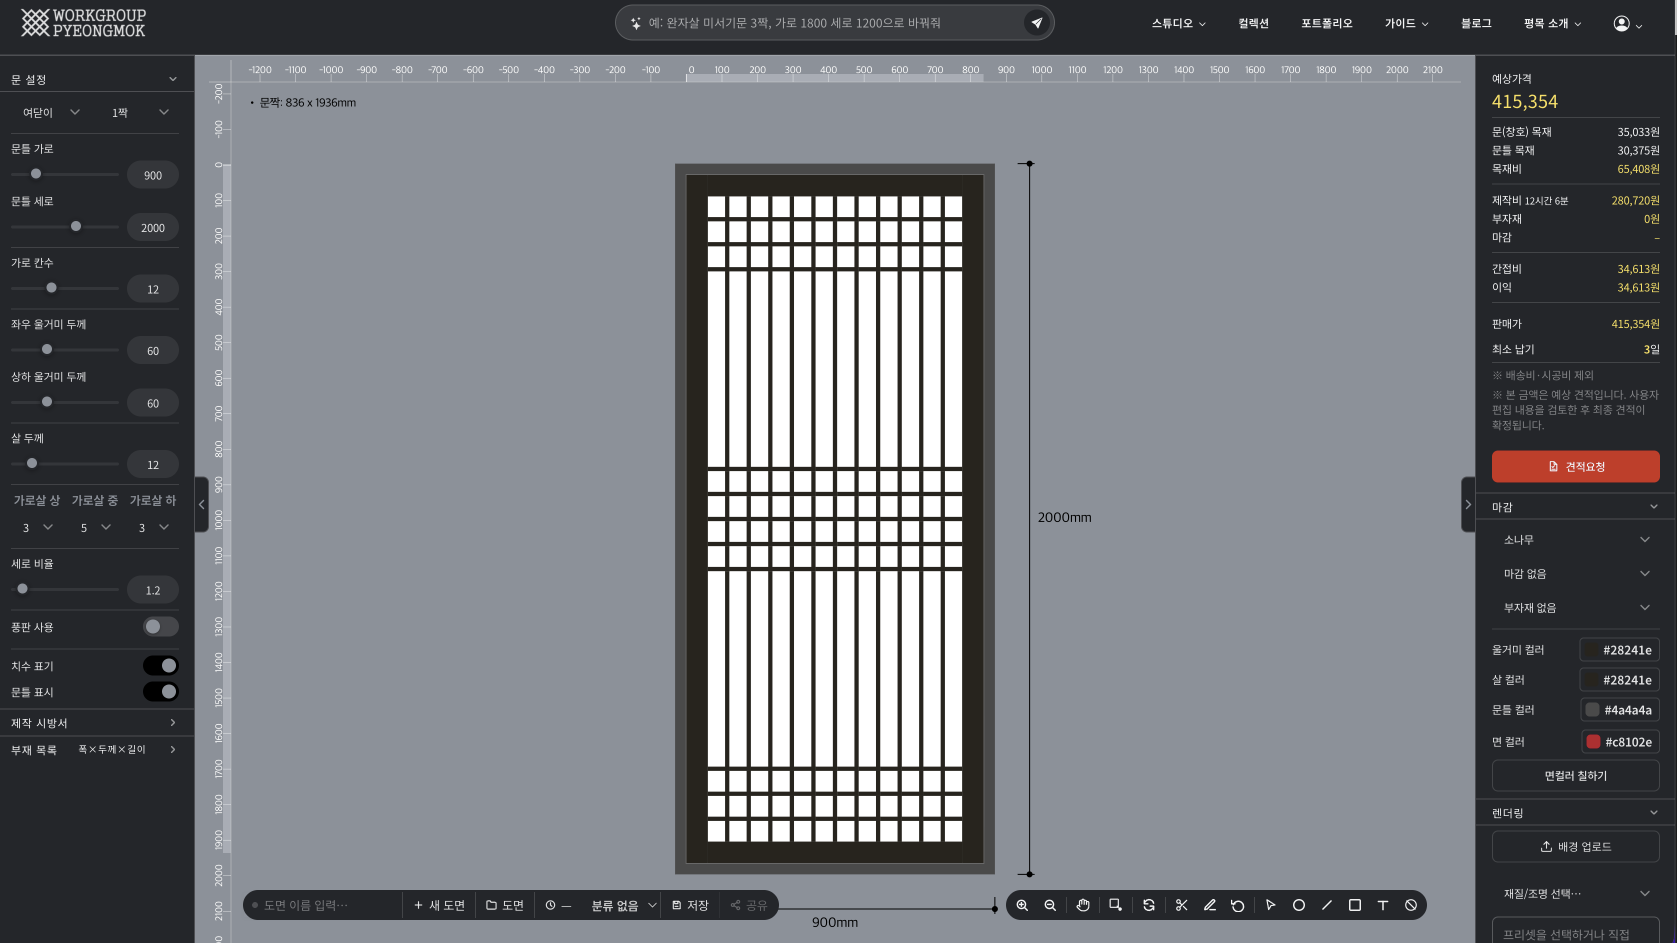
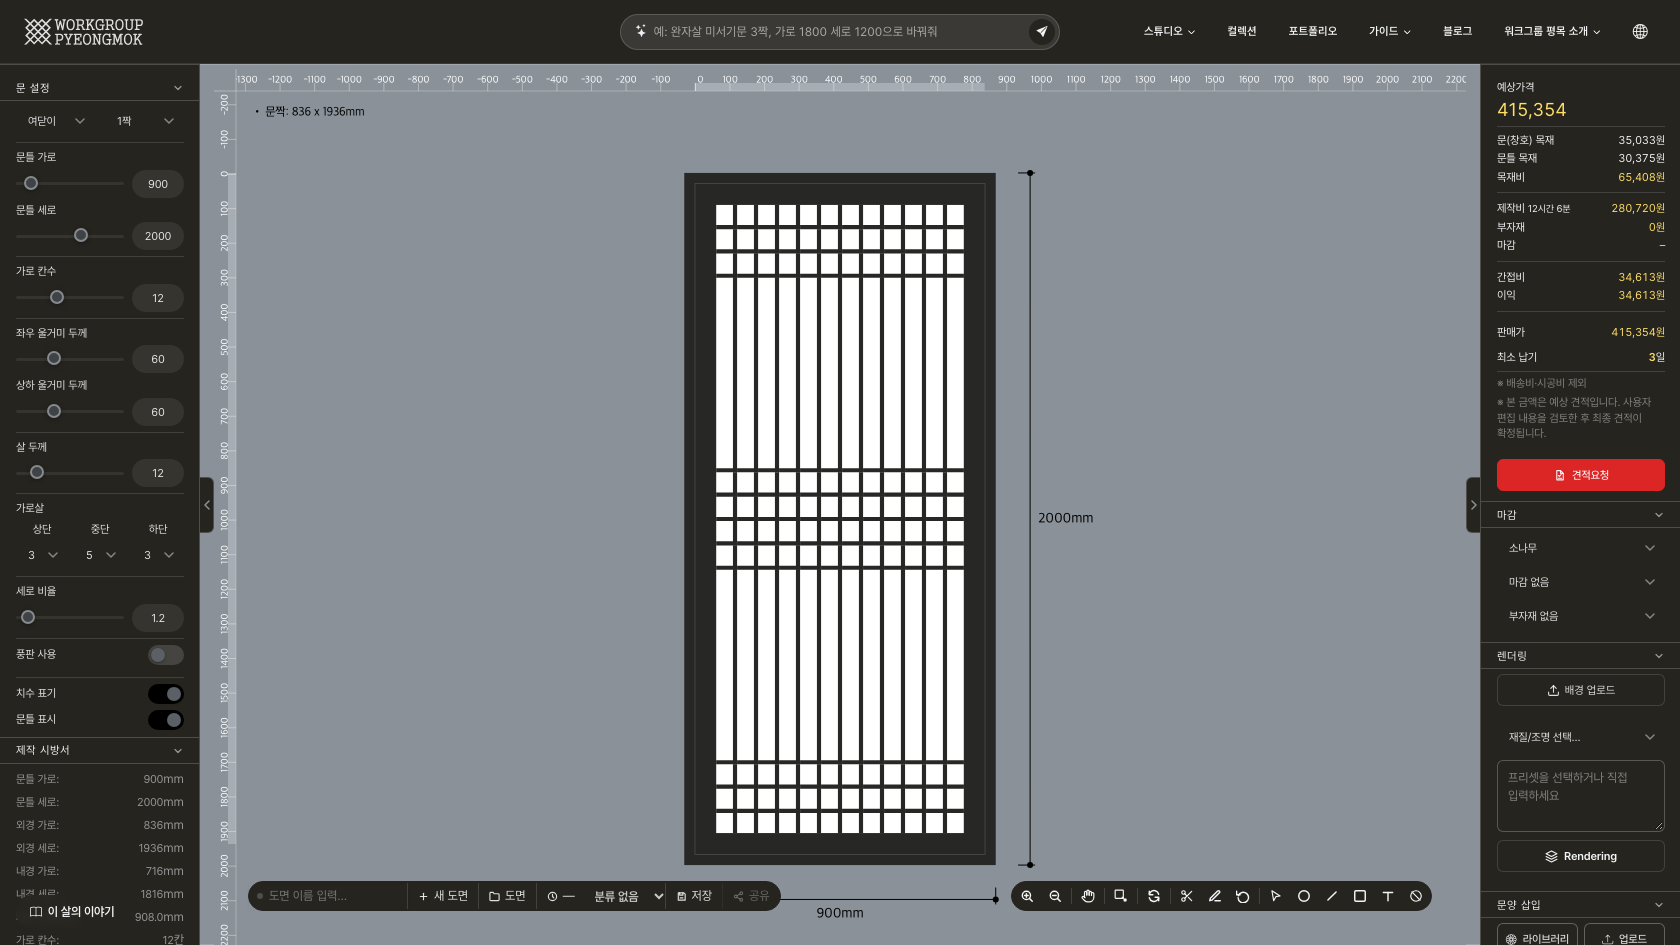
7개 엔진 가이드(한/영)에 엔진 화면 스크린샷 추가, 세살 스크린샷도 현재 화면으로 교체
로그인 상태(예상가격 노출) 1680×945로 운영 엔진 페이지를 캡처, 영문 가이드는 영문 화면(-en.png)을 쓴다.

diff --git a/src/guide/studio-mondrian.php b/src/guide/studio-mondrian.php
@@ -11,6 +11,10 @@ include __DIR__ . '/_head.php';
 <p class="guide-lead"><?= studio_card_description('mondrian', "정자살 격자를 무작위로 분할해 만든 자유 패턴 엔진입니다.
     버튼 한 번으로 새 구성을 만들고, 선을 직접 그리거나 옮겨 다듬을 수 있습니다.") ?></p>
 
+<div class="guide-screenshot">
+    <img src="/src/img/guide/studio-mondrian.png" alt="몬드리안 스튜디오 화면 구성 — 왼쪽 설계 사이드바, 중앙 캔버스, 오른쪽 예상가격·마감·렌더링 사이드바" loading="lazy">
+</div>
+
 <p>
     가로·세로 직선 살만 쓴다는 점은 정자살과 같지만, 칸이 고르게 반복되지 않고
     <strong>크고 작은 직사각형이 비대칭으로 나뉘는</strong> 것이 특징입니다.

diff --git a/src/guide/studio-hexagon.php b/src/guide/studio-hexagon.php
@@ -13,6 +13,10 @@ include __DIR__ . '/_head.php';
     '솟을'은 살이 교차점에서 겹치며 위로 솟아오르는 데서 온 이름으로, 짜임에 입체감이 살아 있습니다.
     살이 만드는 벌집 모양의 여섯 각은 사각보다 원에 가까워, 같은 짜임인데도 세모의 팽팽함 대신 둥글고 넉넉한 인상을 줍니다.") ?></p>
 
+<div class="guide-screenshot">
+    <img src="/src/img/guide/studio-hexagon.png" alt="육모솟을살 스튜디오 화면 구성 — 왼쪽 설계 사이드바, 중앙 캔버스, 오른쪽 예상가격·마감·렌더링 사이드바" loading="lazy">
+</div>
+
 <h2>세모솟을살과의 차이</h2>
 <table class="guide-table">
     <thead><tr><th></th><th>세모솟을살</th><th>육모솟을살</th></tr></thead>

diff --git a/src/guide/studio-triangle.php b/src/guide/studio-triangle.php
@@ -13,6 +13,10 @@ include __DIR__ . '/_head.php';
     살들이 교차하며 정삼각형이 화면 가득 반복되어, 육모의 둥글고 넉넉한 인상과 달리 팽팽하고 긴장감 있는 느낌을 줍니다.
     모든 셀이 정삼각형이 되도록 세로 칸수가 자동으로 계산되며, 세로 칸수를 직접 지정할 수는 없습니다.") ?></p>
 
+<div class="guide-screenshot">
+    <img src="/src/img/guide/studio-triangle.png" alt="세모솟을살 스튜디오 화면 구성 — 왼쪽 설계 사이드바, 중앙 캔버스, 오른쪽 예상가격·마감·렌더링 사이드바" loading="lazy">
+</div>
+
 <h2>살 구성</h2>
 <table class="guide-table">
     <thead><tr><th>살 방향</th><th>각도</th></tr></thead>

diff --git a/src/guide/studio-diamond.php b/src/guide/studio-diamond.php
@@ -12,6 +12,10 @@ include __DIR__ . '/_head.php';
     정(井)자 짜임과 대각선 빗살 짜임이 한 면에서 만나 격자 한 칸이 다시 네 개의 작은 삼각으로 나뉩니다.
     빗살 엔진과 마찬가지로 셀은 항상 정사각형으로 고정되며, 그 위에 가로살·세로살과 사선살이 모두 그려집니다.") ?></p>
 
+<div class="guide-screenshot">
+    <img src="/src/img/guide/studio-diamond.png" alt="격자빗살 스튜디오 화면 구성 — 왼쪽 설계 사이드바, 중앙 캔버스, 오른쪽 예상가격·마감·렌더링 사이드바" loading="lazy">
+</div>
+
 <h2>살 구성</h2>
 <table class="guide-table">
     <thead><tr><th>살 방향</th><th>각도</th><th>역할</th></tr></thead>

diff --git a/src/guide/en/studio-mondrian.php b/src/guide/en/studio-mondrian.php
@@ -11,6 +11,10 @@ include __DIR__ . '/../_head.php';
 <p class="guide-lead">A free-form engine that randomly subdivides the Jeongja-sal grid.
     Generate a new layout with one click, then draw or drag lines to refine it.</p>
 
+<div class="guide-screenshot">
+    <img src="/src/img/guide/studio-mondrian-en.png" alt="Mondrian studio layout — design sidebar on the left, canvas in the center, estimate, finish and rendering sidebar on the right" loading="lazy">
+</div>
+
 <p>
     Like Jeongja-sal, it uses only straight horizontal and vertical slats — but instead of repeating even cells,
     the space is split into <strong>rectangles of different sizes, arranged asymmetrically</strong>.

diff --git a/src/guide/studio-square.php b/src/guide/studio-square.php
@@ -14,6 +14,10 @@ include __DIR__ . '/_head.php';
     세살과 사이드바 구조(문 설정 · 문 치수 · 창살 설정 · 마감 · 배경 · 내보내기)를 대부분 공유하지만,
     상/중/하 3단 구획 대신 <strong>단일 비율의 균등 격자</strong>를 사용합니다.") ?></p>
 
+<div class="guide-screenshot">
+    <img src="/src/img/guide/studio-square.png" alt="정자살 스튜디오 화면 구성 — 왼쪽 설계 사이드바, 중앙 캔버스, 오른쪽 예상가격·마감·렌더링 사이드바" loading="lazy">
+</div>
+
 <h2>세살과의 차이점</h2>
 <table class="guide-table">
     <thead><tr><th></th><th>정자살</th><th>세살</th></tr></thead>

diff --git a/src/guide/en/studio-hexagon.php b/src/guide/en/studio-hexagon.php
@@ -16,6 +16,10 @@ include __DIR__ . '/../_head.php';
     The honeycomb hexagons the slats form are closer to a circle than a square, so — even with the same
     weaving technique — the result feels round and generous rather than taut like the triangular pattern.</p>
 
+<div class="guide-screenshot">
+    <img src="/src/img/guide/studio-hexagon-en.png" alt="Yukmo-sotgeul-sal studio layout — design sidebar on the left, canvas in the center, estimate, finish and rendering sidebar on the right" loading="lazy">
+</div>
+
 <h2>How It Differs from Semo-sotgeul-sal</h2>
 <table class="guide-table">
     <thead><tr><th></th><th>Semo-sotgeul-sal</th><th>Yukmo-sotgeul-sal</th></tr></thead>

diff --git a/src/guide/studio-cross.php b/src/guide/studio-cross.php
@@ -13,6 +13,10 @@ include __DIR__ . '/_head.php';
     가로 칸수만 지정하면 셀이 항상 정사각형이 되도록 세로 칸수가 자동으로 계산되며,
     각도를 조절하는 설정 항목은 따로 없습니다.") ?></p>
 
+<div class="guide-screenshot">
+    <img src="/src/img/guide/studio-cross.png" alt="빗살 스튜디오 화면 구성 — 왼쪽 설계 사이드바, 중앙 캔버스, 오른쪽 예상가격·마감·렌더링 사이드바" loading="lazy">
+</div>
+
 <h2>특징</h2>
 <ul>
     <li>셀은 항상 정사각형으로 고정되며, 그 대각선을 따라 살이 배치되어 45° 사선 무늬가 만들어집니다.</li>

diff --git a/src/guide/en/studio-cross.php b/src/guide/en/studio-cross.php
@@ -14,6 +14,10 @@ include __DIR__ . '/../_head.php';
     You set only the horizontal cell count; the vertical count is calculated automatically so the cells
     stay perfectly square, and there is no separate setting for the angle.</p>
 
+<div class="guide-screenshot">
+    <img src="/src/img/guide/studio-cross-en.png" alt="Bit-sal studio layout — design sidebar on the left, canvas in the center, estimate, finish and rendering sidebar on the right" loading="lazy">
+</div>
+
 <h2>Characteristics</h2>
 <ul>
     <li>Cells are always fixed as squares, with slats laid along their diagonals to create the 45° pattern.</li>

diff --git a/src/guide/en/studio-diamond.php b/src/guide/en/studio-diamond.php
@@ -14,6 +14,10 @@ include __DIR__ . '/../_head.php';
     As in the Bit-sal engine, cells are always fixed as squares, with vertical, horizontal and diagonal
     slats all drawn over them.</p>
 
+<div class="guide-screenshot">
+    <img src="/src/img/guide/studio-diamond-en.png" alt="Gyeokja-bit-sal studio layout — design sidebar on the left, canvas in the center, estimate, finish and rendering sidebar on the right" loading="lazy">
+</div>
+
 <h2>Slat Composition</h2>
 <table class="guide-table">
     <thead><tr><th>Slat direction</th><th>Angle</th><th>Role</th></tr></thead>

diff --git a/src/guide/en/studio-square.php b/src/guide/en/studio-square.php
@@ -16,6 +16,10 @@ include __DIR__ . '/../_head.php';
     finish, background, export), but uses a <strong>single-ratio even grid</strong> instead of three
     top/middle/bottom zones.</p>
 
+<div class="guide-screenshot">
+    <img src="/src/img/guide/studio-square-en.png" alt="Jeongja-sal studio layout — design sidebar on the left, canvas in the center, estimate, finish and rendering sidebar on the right" loading="lazy">
+</div>
+
 <h2>How It Differs from Se-sal</h2>
 <table class="guide-table">
     <thead><tr><th></th><th>Jeongja-sal</th><th>Se-sal</th></tr></thead>

diff --git a/src/guide/en/studio-triangle.php b/src/guide/en/studio-triangle.php
@@ -16,6 +16,10 @@ include __DIR__ . '/../_head.php';
     The vertical cell count is calculated automatically so that every cell forms an equilateral triangle,
     and cannot be set manually.</p>
 
+<div class="guide-screenshot">
+    <img src="/src/img/guide/studio-triangle-en.png" alt="Semo-sotgeul-sal studio layout — design sidebar on the left, canvas in the center, estimate, finish and rendering sidebar on the right" loading="lazy">
+</div>
+
 <h2>Slat Composition</h2>
 <table class="guide-table">
     <thead><tr><th>Slat direction</th><th>Angle</th></tr></thead>
